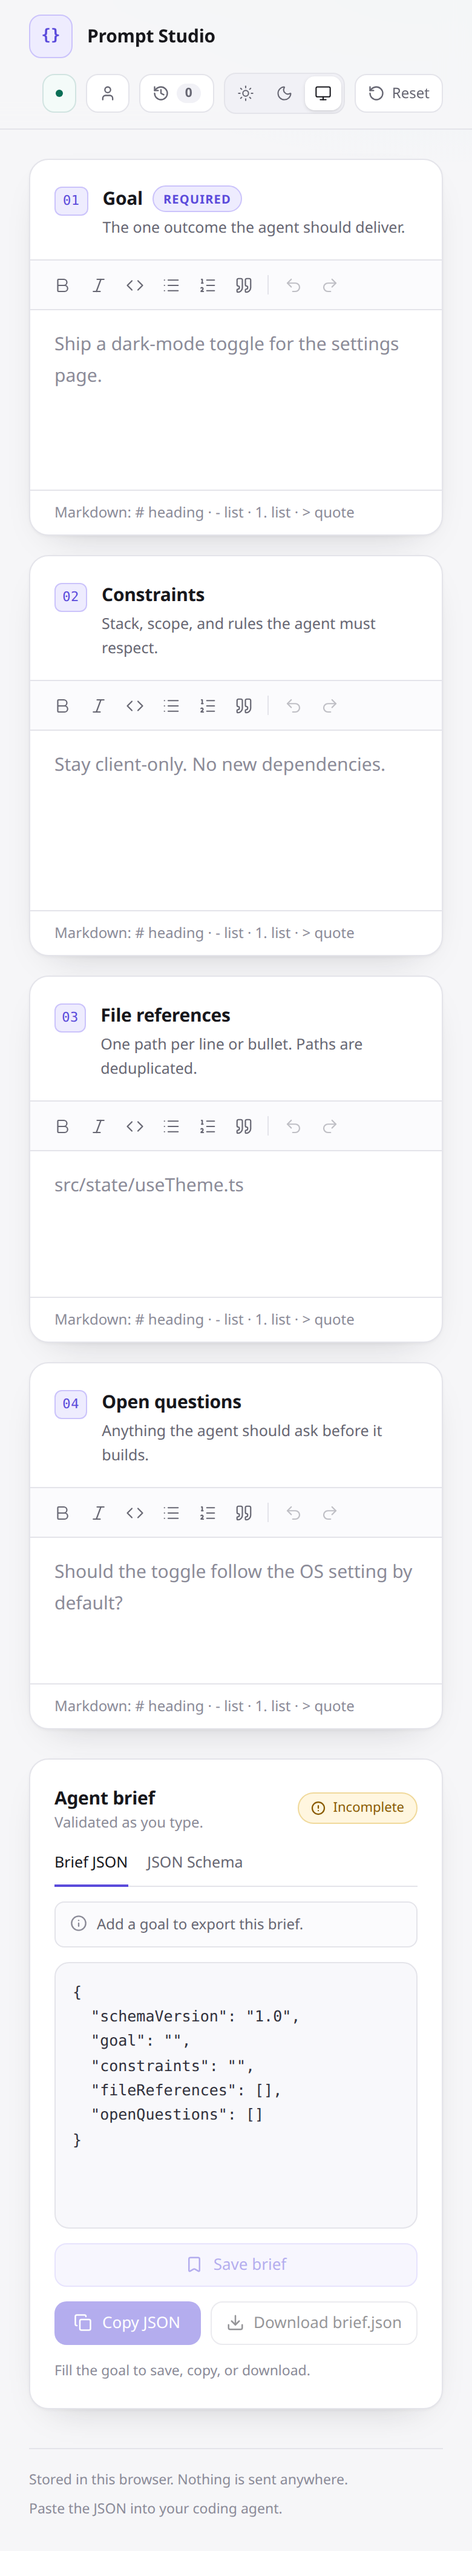
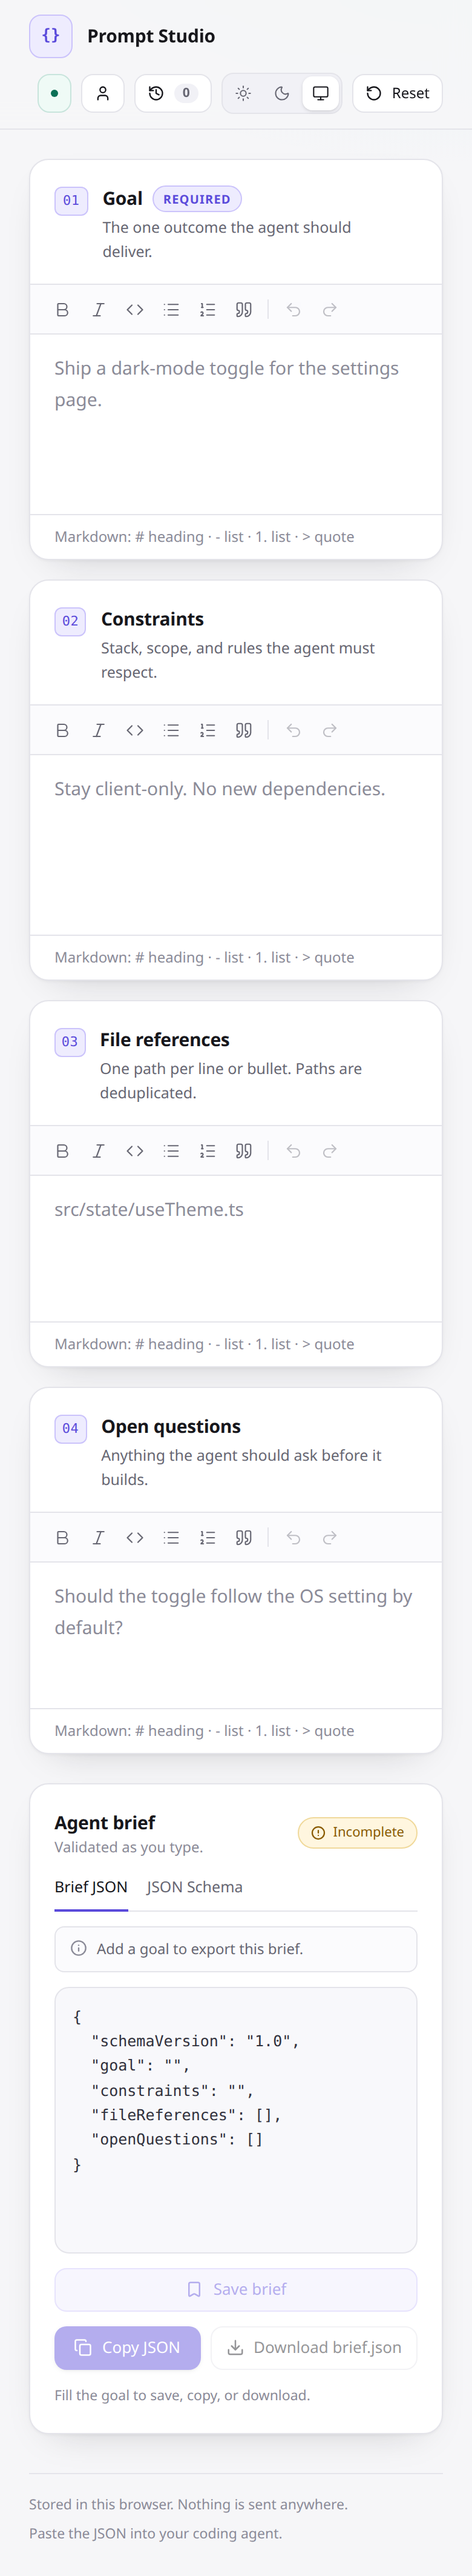
docs: document per-field clear and button states

diff --git a/README.md b/README.md
@@ -14,6 +14,7 @@ Write a goal, constraints, file references, and open questions. Prompt Studio tu
 
 - Four rich-text fields share one editor: bold, italic, inline code, bullet and numbered lists, quotes, headings, undo, and redo. Typing `- `, `1. `, `# `, or `> ` starts the matching block.
 - The right panel updates on every keystroke with the JSON brief. Copy it or download `brief.json`.
+- Clear one field with the eraser in its card. The toast offers Undo, and Ctrl+Z also restores it. The header Reset clears all four fields.
 - The JSON Schema tab shows the draft 2020-12 schema the payload is validated against. Zod generates both from one declaration.
 - Create an account to save briefs to MongoDB Atlas. History is scoped to the account and follows you to any device.
 - Signed-out use still works. Drafts and guest history stay in this browser.
@@ -169,7 +170,7 @@ src/
 
 Colors and spacing live in `src/styles.css` as CSS variables mapped into Tailwind v4 through `@theme inline`. The `dark` class on `<html>` swaps the token set. An inline script in `index.html` applies the stored theme before first paint.
 
-The layout is a two-column workspace at 1024 px and wider, and a single column below that. Every control is a real button or a labelled editor, the toolbar exposes `aria-pressed`, the output tabs follow the WAI-ARIA tabs pattern, and the auth dialog and history drawer share one focus-trap hook.
+The layout is a two-column workspace at 1024 px and wider, and a single column below that. Every action button uses the same hover, pressed, focus, and disabled recipe. Enabled controls show a pointer, disabled controls show not-allowed, and reduced motion removes the transitions. The toolbar exposes `aria-pressed`, the output tabs follow the WAI-ARIA tabs pattern, and the auth dialog and history drawer share one focus-trap hook.
 
 `src/brief/`, `src/history/`, and `shared/` import neither React nor the DOM, so they can move into a workspace package without edits.
 
@@ -179,8 +180,8 @@ The original visual layer was built without Stitch because no Stitch MCP server 
 
 ## Verification
 
-- `npm test` runs 52 unit tests across the serializer, schema, history model, password hashing, rate limiting, origin checks, and document validation.
+- `npm test` runs 55 unit tests across the serializer, schema, history model, password hashing, rate limiting, origin checks, and document validation.
 - `npm run verify:api` runs 30 checks against a real local mongod: signup, sessions, save, duplicate detection, two-user isolation, IDOR, delete, clear, logout, bad credentials, and origin rejection.
-- `npm run verify:ui` runs 38 guest checks in Chrome.
+- `npm run verify:ui` runs 47 guest checks in Chrome, including pointer and disabled cursors, per-field clear, Undo, Ctrl+Z, and reduced motion.
 - `npm run verify:auth` runs 25 account checks: signup, account save, sign-out, second-account isolation, history restore across reload, degraded and recovered status, retry after two simulated 503s, and screenshots.
 - Run the server first for the browser scripts.
